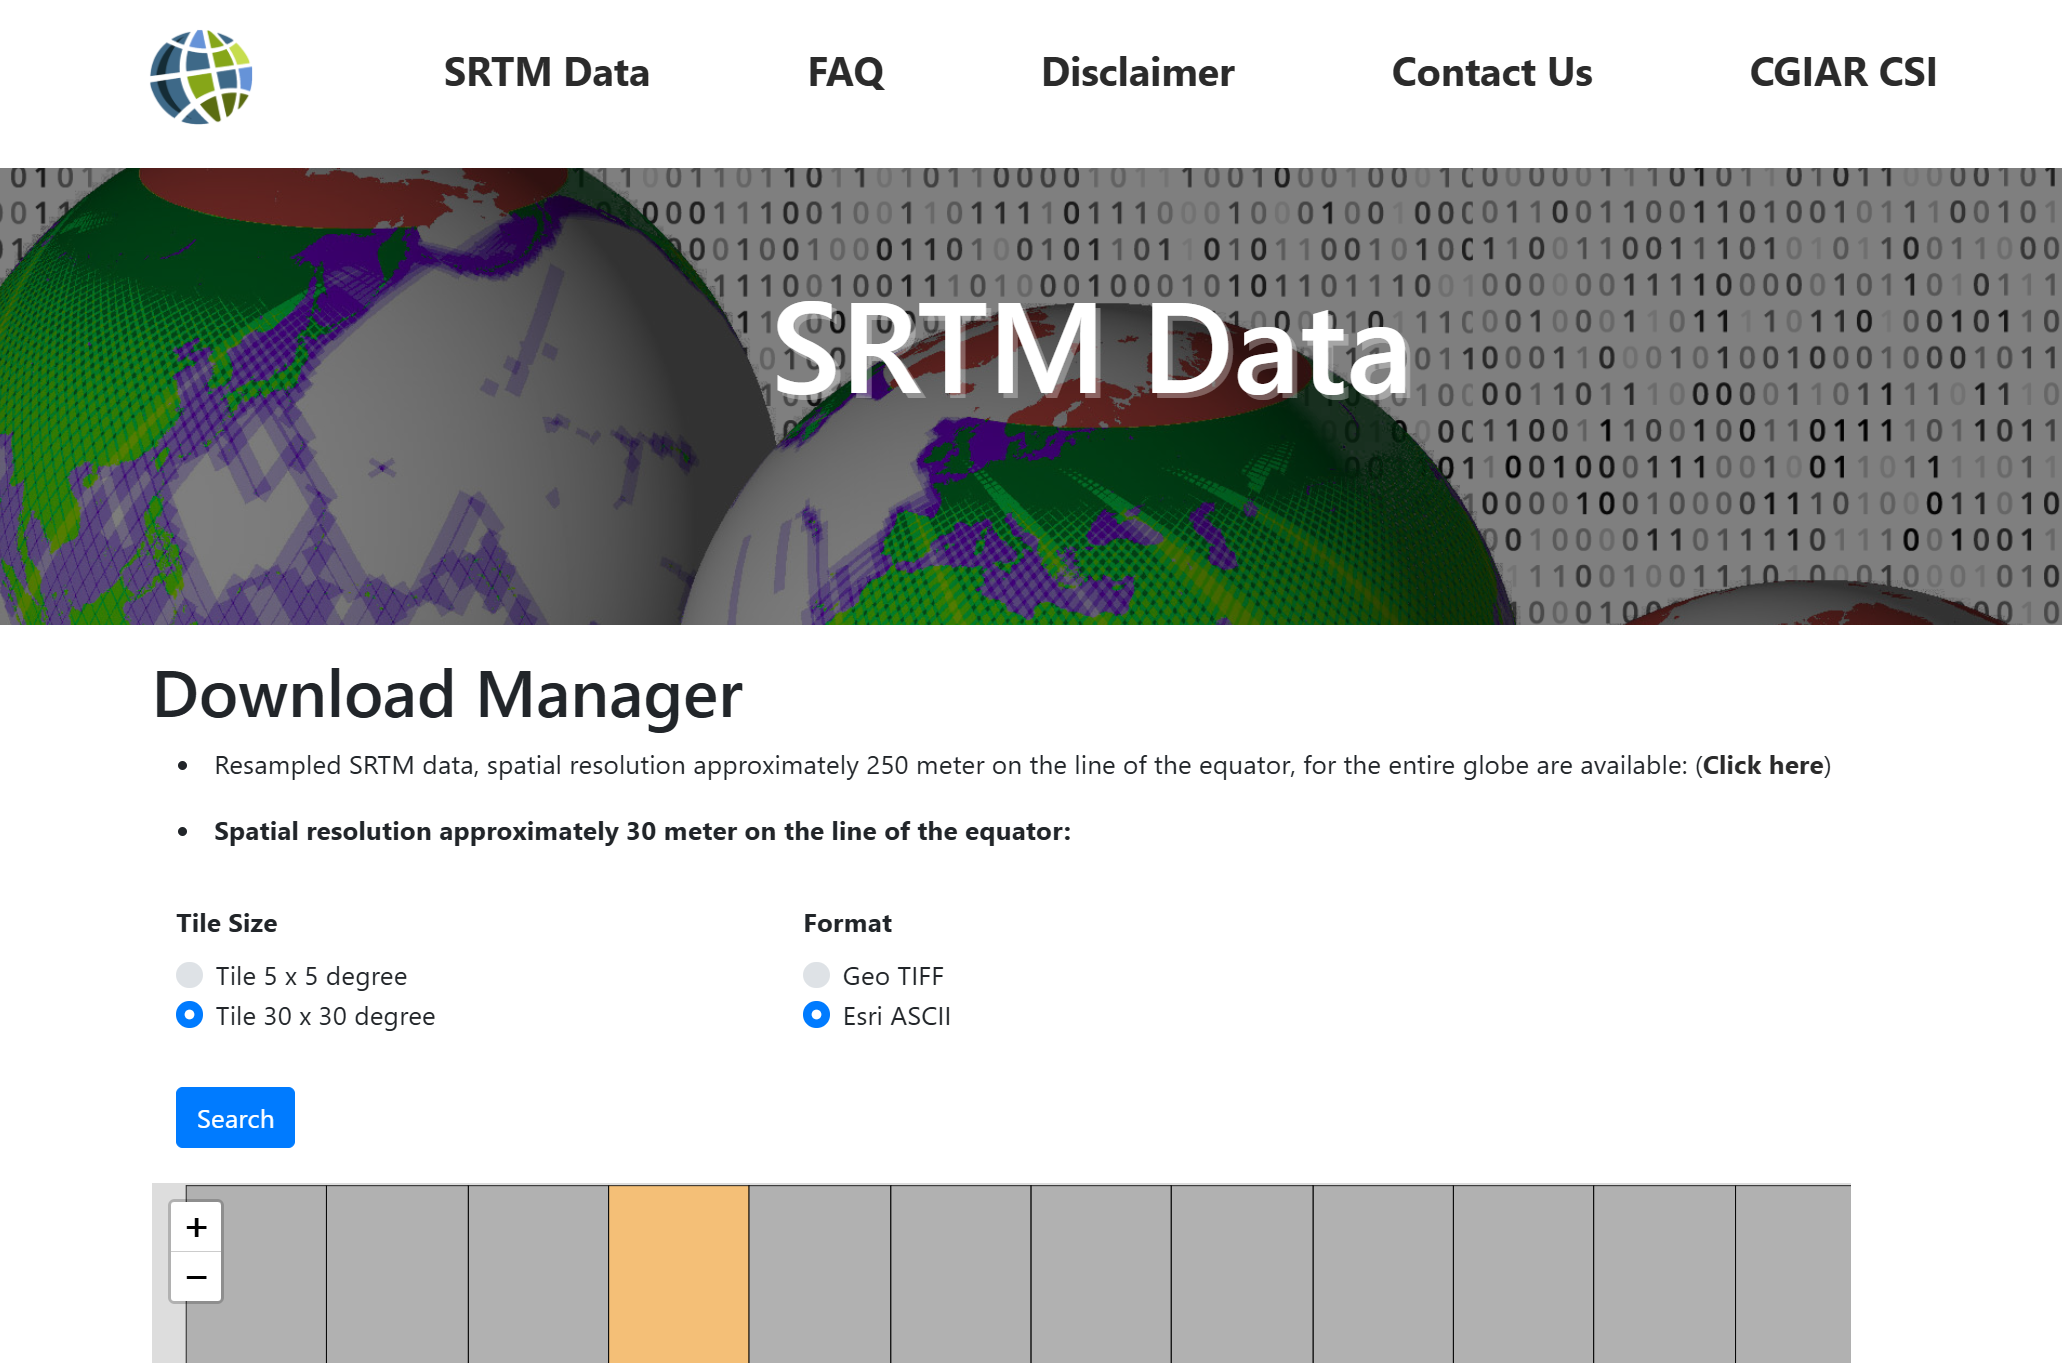
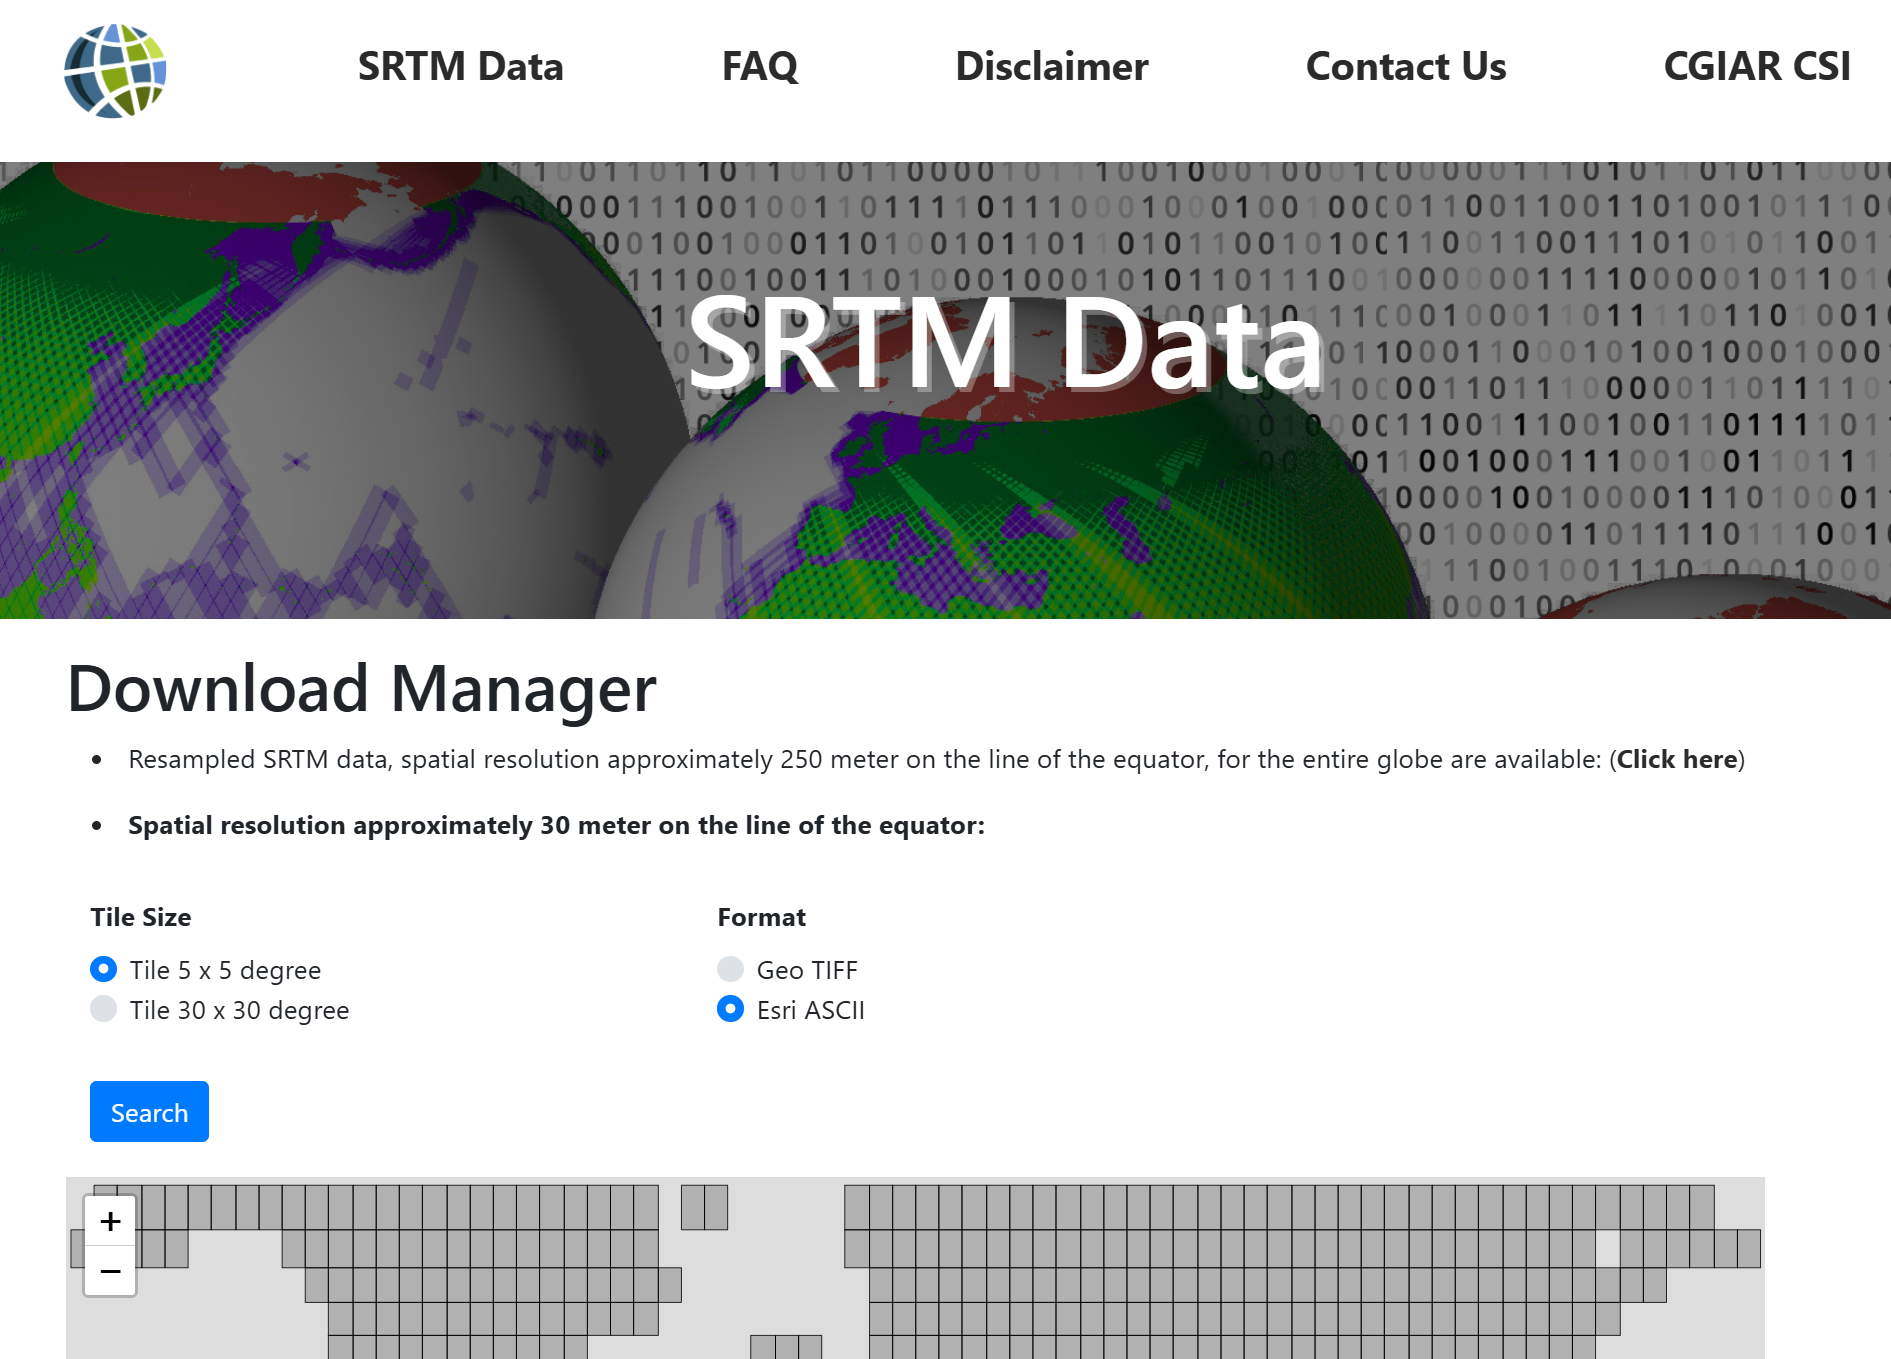
correction in database build document

diff --git a/external/Topography/SRTM90/Readme.md b/external/Topography/SRTM90/Readme.md
@@ -4,11 +4,15 @@
 
 # Download Steps
 
+## Auto download
+
+The package provides a function: `SeisTools.Topography.download_srtm_block(lat::Real, lon::Real)`. You can download the tile covering the specified `lat` and `lon`. The `lat` and `lon` do not need to be the center of tile.
+
+## Manual download
+
 1. Open the [link to SRTM90 download page](https://srtm.csi.cgiar.org/srtmdata/)
    ![homepage of SRTM90](figs/page1.png)
-2. choose Tile 5x5 or 30x30 degree block, `GeoTIFF` format, then click on blocks in map to select
+2. choose Tile 5x5 degree block, `Esri ASCII` format, then click on blocks in map to select
 3. click search to list results
    ![search result](figs/page2.png)
-4. click `Download SRTM` to download data of this block, save it into `.../SeisTools.jl/external/Topography/SRTM90/raw_data`
-
-# Reference
+4. click `Download SRTM` to download data of this block and save it into `.../SeisTools.jl/external/Topography/SRTM90/raw_data`
